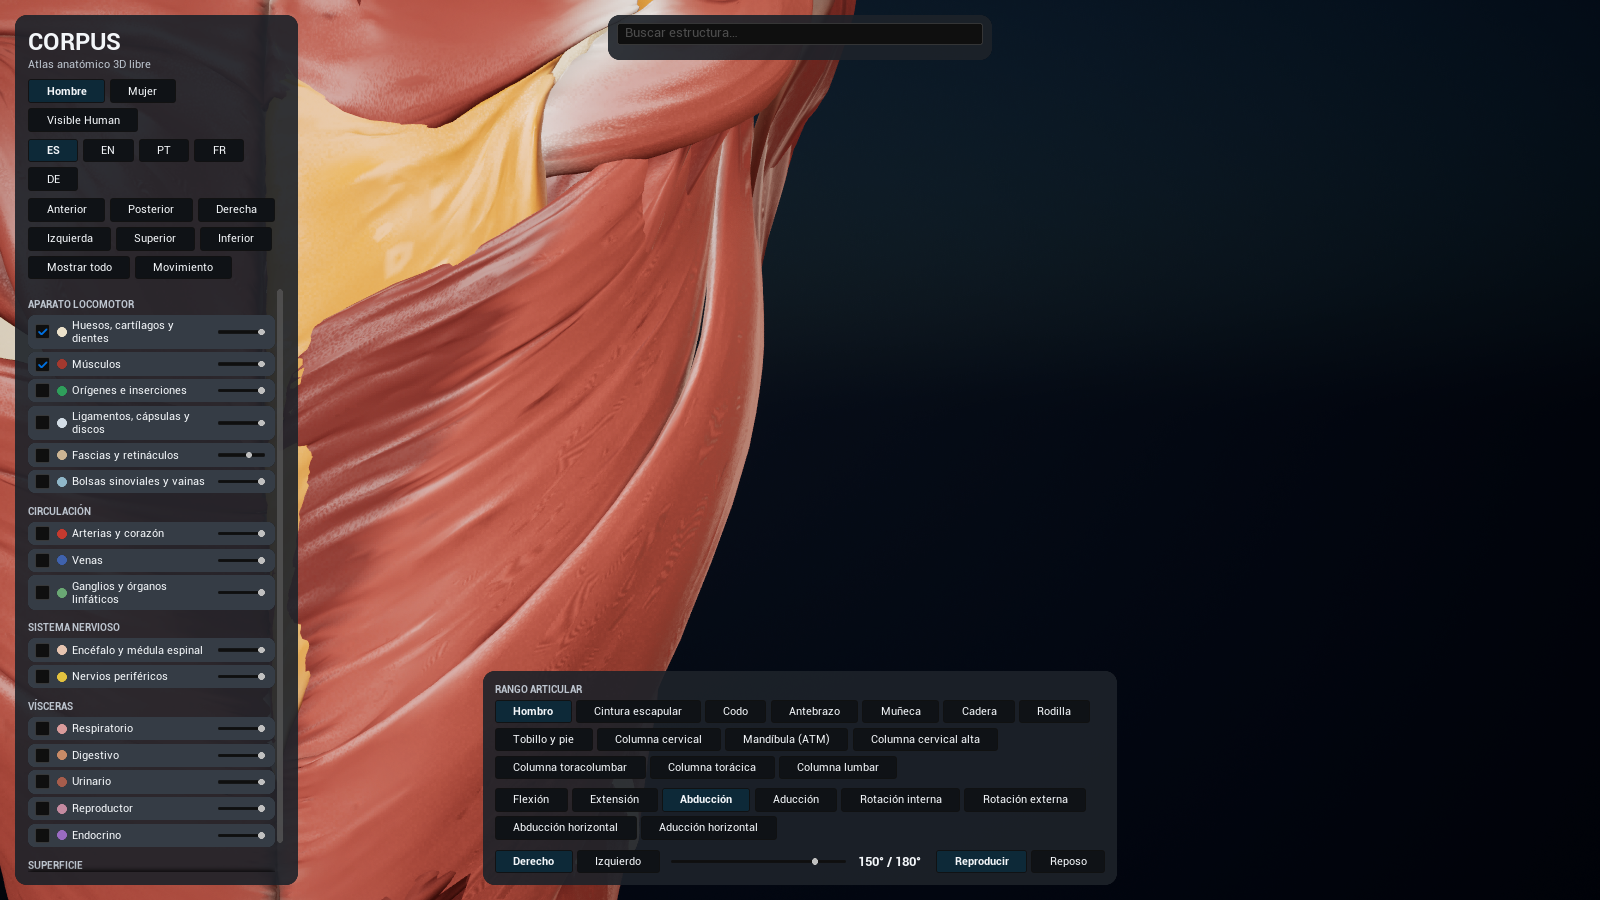
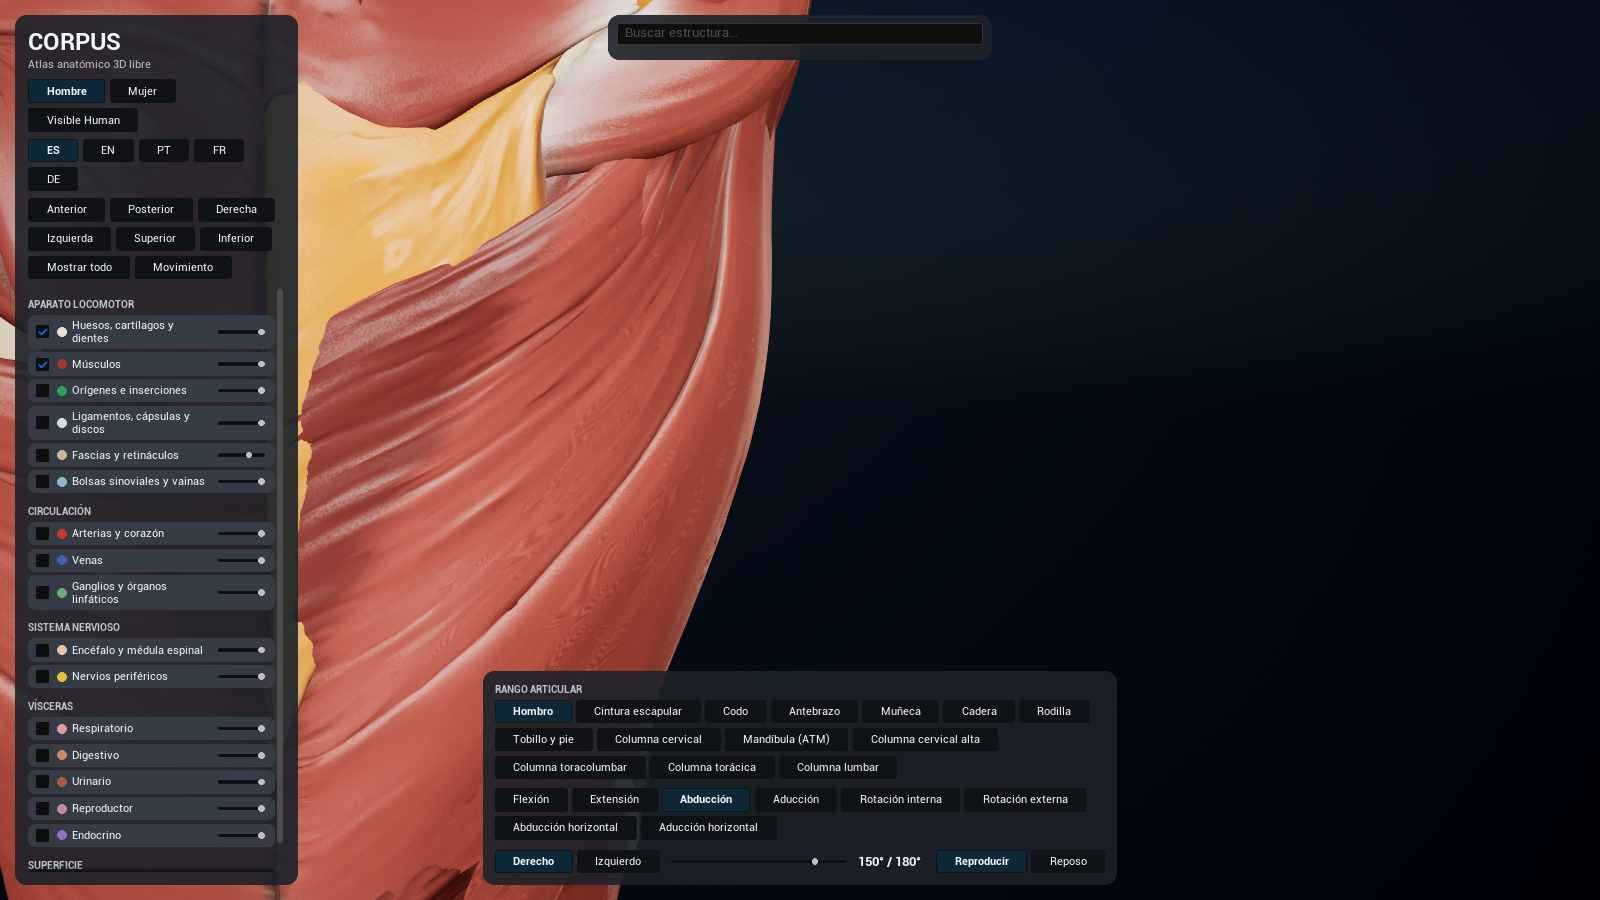
Unreal movimiento: fasciculos enlazados, escapula que sube sin girar y mosaico
Los fasciculos que se tocan comparten el reparto del estiramiento (sin solapas en la extension). En la
elevacion y depresion de la cintura escapular la acromioclavicular compensa a la clavicula. mosaico.ps1
compone capturas de antes y despues; capturas mov_20 a mov_24 y mosaico_movimiento.png.

diff --git a/tools/unreal/movimiento.js b/tools/unreal/movimiento.js
@@ -114,6 +114,12 @@ const PREPARA = `(async()=>{
       const {cs,H}=window.__huesos,RA=0.012,uid=new Int32Array(n),M=new Map();let nu=0;for(let v=0;v<n;v++){const k=Math.round(pos[v*3]*2e4)+','+Math.round(pos[v*3+1]*2e4)+','+Math.round(pos[v*3+2]*2e4);let q=M.get(k);if(q===undefined){q=nu++;M.set(k,q);}uid[v]=q;}
       const rep=new Int32Array(nu).fill(-1);for(let v=0;v<n;v++)if(rep[uid[v]]<0)rep[uid[v]]=v;
       const nb=Array.from({length:nu},()=>new Set());for(let t=0;t<idx.length;t+=3){const a=uid[idx[t]],b=uid[idx[t+1]],c=uid[idx[t+2]];if(a!==b){nb[a].add(b);nb[b].add(a);}if(b!==c){nb[b].add(c);nb[c].add(b);}if(a!==c){nb[a].add(c);nb[c].add(a);}}
+      /* los fascículos (islas) que se tocan quedan enlazados: cada vértice se une a los de otras islas a menos de 4 mm.
+         Sin esto cada fascículo tenía su propio reparto y uno asomaba entre sus vecinos como una solapa. */
+      {const cs2=0.004,H2=new Map();for(let q=0;q<nu;q++){const v=rep[q],k=Math.floor(pos[v*3]/cs2)+','+Math.floor(pos[v*3+1]/cs2)+','+Math.floor(pos[v*3+2]/cs2);let l=H2.get(k);if(!l)H2.set(k,l=[]);l.push(q);}
+        for(let q=0;q<nu;q++){const v=rep[q],x=pos[v*3],y=pos[v*3+1],z=pos[v*3+2],fx=Math.floor(x/cs2),fy=Math.floor(y/cs2),fz=Math.floor(z/cs2);let m=0;
+          for(let a=-1;a<=1&&m<8;a++)for(let b=-1;b<=1&&m<8;b++)for(let c=-1;c<=1&&m<8;c++){const l=H2.get((fx+a)+','+(fy+b)+','+(fz+c));if(!l)continue;
+            for(const p of l){if(p===q||nb[q].has(p))continue;const w=rep[p];if((pos[w*3]-x)**2+(pos[w*3+1]-y)**2+(pos[w*3+2]-z)**2<cs2*cs2){nb[q].add(p);nb[p].add(q);if(++m>=8)break;}}}}}
       const NB=nb.map(s=>Int32Array.from(s)),ancla=new Array(nu).fill(null);
       for(let q=0;q<nu;q++){const v=rep[q],x=pos[v*3],y=pos[v*3+1],z=pos[v*3+2],fx=Math.floor(x/cs),fy=Math.floor(y/cs),fz=Math.floor(z/cs);let bd=RA*RA,bp=null;
         for(let a=-1;a<=1;a++)for(let b=-1;b<=1;b++)for(let c=-1;c<=1;c++){const l=H.get((fx+a)+','+(fy+b)+','+(fz+c));if(!l)continue;for(let t=0;t<l.length;t+=4){const d=(l[t]-x)**2+(l[t+1]-y)**2+(l[t+2]-z)**2;if(d<bd){bd=d;bp=l[t+3];}}}ancla[q]=bp;}
@@ -260,6 +266,14 @@ const PREPARA = `(async()=>{
     const aAA = q => { if (q[3] < 0) q = q.map(x => -x); const an = 2 * Math.acos(Math.min(1, q[3])), s = Math.sqrt(Math.max(0, 1 - q[3] * q[3])); return s > 1e-6 ? [q[0] / s, q[1] / s, q[2] / s, an] : [1, 0, 0, 0]; };
     const kDe = p => [TX.k(torax, p), TX.radio(torax, p)];
     const sobre = (p, piv, q) => qRot(q, p.map((x, i) => x - piv[i])).map((x, i) => x + piv[i]);
+    /* Elevación y depresión de la cintura escapular: la clavícula gira sobre la esternoclavicular y la acromioclavicular
+       compensa, de modo que la escápula sube o baja casi sin girar (es una traslación sobre el tórax). En la web la
+       escápula giraba entera con la clavícula. */
+    { const e0 = rom.find(r => r.id === 'escapula');
+      if (e0) e0.movs.slice(0, 2).forEach(M => { for (const S of ['R', 'L']) { if (!M[S]) continue; const iA = R.L.indexOf('acr_' + S), iC = R.L.indexOf('sc_' + S), f5 = x => Math.round(x * 1e5) / 1e5;
+        M[S] = M[S].map(fr => { const ops = []; for (let k = 0; k < fr.length; k += 8) ops.push(fr.slice(k, k + 8));
+          const oC = ops.find(o => o[0] === iC); if (!oC) return fr; const a = aAA(qInv(qAA(oC.slice(1, 4), oC[4]))), sin = ops.filter(o => o[0] !== iA);
+          sin.push([iA, f5(a[0]), f5(a[1]), f5(a[2]), f5(a[3]), 0, 0, 0]); return sin.sort((x, y) => x[0] - y[0]).flat(); }); } }); }
     let nfix = 0, amax = 0;
     for (const r of rom) for (const M of r.movs) for (const S of ['R', 'L']) { if (!M[S]) continue;
       const iA = R.L.indexOf('acr_' + S), iC = R.L.indexOf('sc_' + S), iH = R.L.indexOf('shoulder_' + S), pA = R.piv[iA], pC = R.piv[iC], tip0 = rig['scapBot_' + S], k0 = kDe(tip0)[0];
